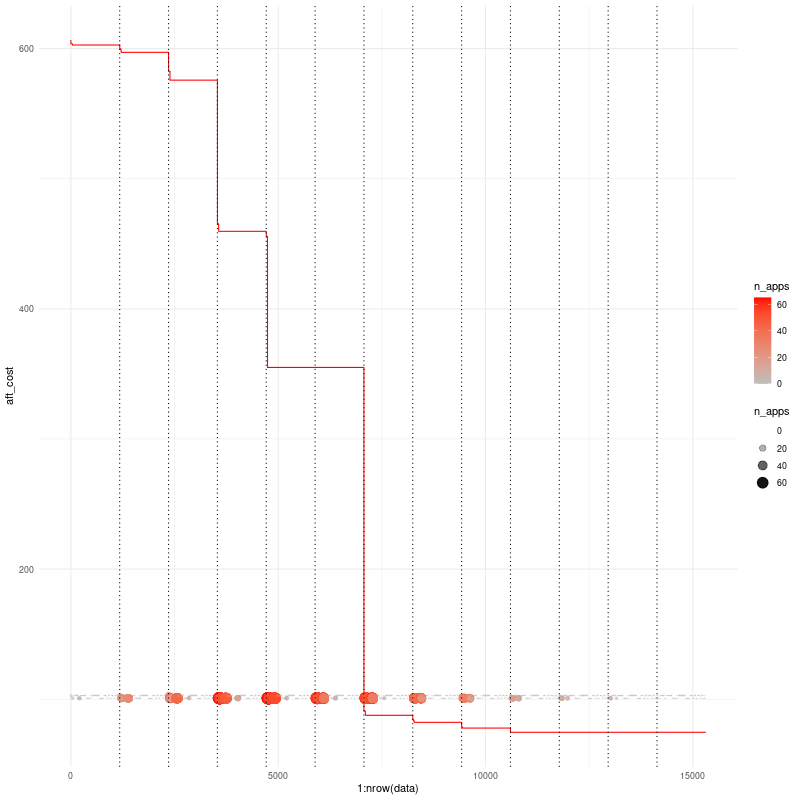
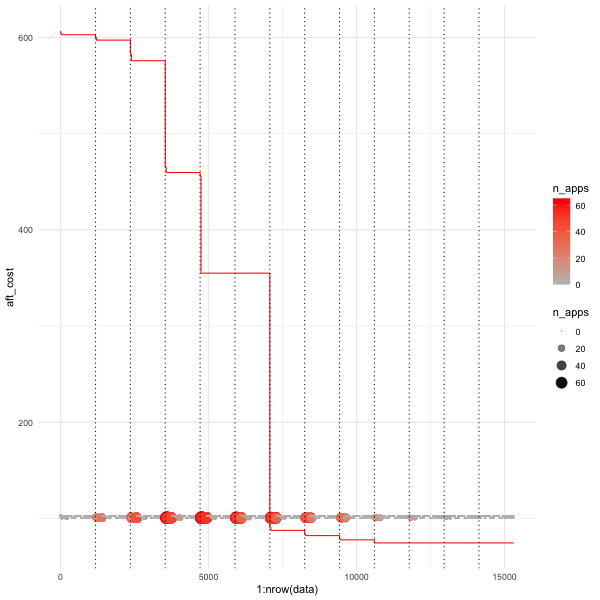
added some automatic phase separation

diff --git a/src/dios-egraphs/src/rules.rs b/src/dios-egraphs/src/rules.rs
@@ -1,9 +1,9 @@
-use std::{collections::HashMap, fs::File, io::BufWriter};
+use std::{collections::HashMap, fmt::Display, fs::File, io::BufWriter};
 
 use egg::{rewrite as rw, BackoffScheduler, Extractor, RecExpr, Runner, SimpleScheduler};
 
 use crate::{
-    cost::VecCostFn,
+    cost::{cost_average, cost_differential, VecCostFn},
     eqsat::{self, do_eqsat},
     external::{external_rules, retain_cost_effective_rules, smart_select_rules},
     handwritten::{handwritten_rules, phases},
@@ -21,9 +21,37 @@ pub enum Phase {
     Opt,
 }
 
+impl Display for Phase {
+    fn fmt(&self, f: &mut std::fmt::Formatter<'_>) -> Result<(), std::fmt::Error> {
+        let s = match self {
+            Phase::PreCompile => "Pre-compilation",
+            Phase::Compile => "Compilation",
+            Phase::Opt => "Optimization",
+        };
+        write!(f, "{}", s)
+    }
+}
+
 #[allow(unused)]
 fn retain_rules_by_name(rules: &mut Vec<DiosRwrite>, names: &[&str]) {
     rules.retain(|rewrite| names.contains(&rewrite.name.as_str()))
+}
+
+fn print_rules(rules: &[DiosRwrite]) {
+    for r in rules {
+        eprint!(
+            "[{} cd:{:.2} avg:{:.2}] ",
+            r.name,
+            cost_differential(r),
+            cost_average(r)
+        );
+        if let (Some(lhs), Some(rhs)) = (r.searcher.get_pattern_ast(), r.applier.get_pattern_ast())
+        {
+            eprintln!("{} => {}", lhs, rhs);
+        } else {
+            eprintln!("<opaque>");
+        }
+    }
 }
 
 pub type LoggingRunner = Runner<VecLang, TrackRewrites, LoggingData>;
@@ -58,7 +86,9 @@ pub fn run(prog: &RecExpr<VecLang>, opts: &opts::Opts) -> (f64, RecExpr<VecLang>
 
     if let Some(cutoff) = opts.cost_filter {
         initial_rules =
-            retain_cost_effective_rules(&initial_rules, opts.no_dup_vars, |x| x > cutoff);
+            retain_cost_effective_rules(&initial_rules, opts.no_dup_vars, cost_differential, |x| {
+                x > cutoff
+            });
     }
 
     // ================================
@@ -73,7 +103,25 @@ pub fn run(prog: &RecExpr<VecLang>, opts: &opts::Opts) -> (f64, RecExpr<VecLang>
 
     if let Some(split_phase_opt) = &opts.split_phase {
         match split_phase_opt {
-            SplitPhase::Auto => unimplemented!(),
+            SplitPhase::Auto => {
+                let pre_compile =
+                    retain_cost_effective_rules(&initial_rules, false, cost_average, |x| x < 10.);
+                let compile =
+                    retain_cost_effective_rules(&initial_rules, false, cost_average, |x| {
+                        10.0 <= x && x < 70.
+                    });
+                let opt =
+                    retain_cost_effective_rules(&initial_rules, false, cost_average, |x| 70. <= x);
+                rules
+                    .entry(Phase::PreCompile)
+                    .and_modify(|rules| rules.extend(pre_compile));
+                rules
+                    .entry(Phase::Compile)
+                    .and_modify(|rules| rules.extend(compile));
+                rules
+                    .entry(Phase::Opt)
+                    .and_modify(|rules| rules.extend(opt));
+            }
             SplitPhase::Handwritten => {
                 for r in initial_rules {
                     rules.entry(phases(&r)).and_modify(|rules| rules.push(r));
@@ -150,114 +198,35 @@ pub fn run(prog: &RecExpr<VecLang>, opts: &opts::Opts) -> (f64, RecExpr<VecLang>
         return (f64::NAN, prog.clone());
     }
 
-    // =============
-    // Start phase 1
-    // =============
+    let order = [Phase::PreCompile, Phase::Compile, Phase::Opt];
 
-    eprintln!("=================================");
-    eprintln!("Starting Phase 1: Pre-compilation");
-    eprintln!("=================================");
+    let mut eg = eqsat::init_egraph();
+    let mut prog = prog.clone();
+    let mut cost = None;
+    for (i, phase) in order.iter().enumerate() {
+        eprintln!("=================================");
+        eprintln!("Starting Phase {}: {}", i + 1, &phase);
+        eprintln!("=================================");
 
-    let eg = eqsat::init_egraph();
-    let (cost1, prog1, eg) = do_eqsat(&rules[&Phase::PreCompile], eg, prog, opts);
-    eprintln!("Cost: {}", cost1);
+        if opts.dump_rules {
+            print_rules(&rules[phase]);
+        }
 
-    eprintln!("=============================");
-    eprintln!("Starting Phase 2: Compilation");
-    eprintln!("=============================");
+        let (new_cost, new_prog, new_eg) = do_eqsat(&rules[phase], eg, &prog, opts);
+        if let Some(old_cost) = cost {
+            eprintln!("Cost: {} (improved {})", new_cost, old_cost - new_cost);
+        } else {
+            eprintln!("Cost: {}", new_cost);
+        }
 
-    let (cost2, prog2, eg) = do_eqsat(&rules[&Phase::Compile], eg, &prog1, opts);
-    eprintln!("Cost: {} (improved {})", cost2, cost1 - cost2);
+        if opts.new_egraph {
+            eg = eqsat::init_egraph();
+        } else {
+            eg = new_eg;
+        }
+        prog = new_prog;
+        cost = Some(new_cost);
+    }
 
-    eprintln!("==============================");
-    eprintln!("Starting Phase 3: Optimization");
-    eprintln!("==============================");
-
-    let (cost3, prog3, _eg) = do_eqsat(&rules[&Phase::Opt], eg, &prog2, opts);
-    eprintln!("Cost: {} (improved {})", cost3, cost2 - cost3);
-
-    (cost3, prog3)
-
-    // let mut init_eg: EGraph = EGraph::new(TrackRewrites::default()).with_explanations_enabled();
-    // init_eg.add(VecLang::Num(0));
-    // let mut runner = LoggingRunner::new(Default::default())
-    //     .with_egraph(init_eg)
-    //     .with_expr(&prog)
-    //     .with_node_limit(10_000_000)
-    //     .with_time_limit(std::time::Duration::from_secs(opts.timeout as u64))
-    //     .with_iter_limit(opts.iter_limit);
-
-    // // select the scheduler
-    // runner = match opts.scheduler {
-    //     opts::SchedulerOpt::Simple => runner.with_scheduler(SimpleScheduler),
-    //     opts::SchedulerOpt::Backoff => runner.with_scheduler(BackoffScheduler::default()),
-    //     opts::SchedulerOpt::Logging => {
-    //         if let Some(filename) = &opts.instrument {
-    //             let write = Box::new(BufWriter::with_capacity(
-    //                 1024,
-    //                 File::create(filename).unwrap(),
-    //             ));
-    //             let mut sched = LoggingScheduler::new_w_write(runner.roots[0], prog.clone(), write);
-    //             sched.write_headers();
-    //             runner.with_scheduler(sched)
-    //         } else {
-    //             let sched = LoggingScheduler::new(runner.roots[0], prog.clone());
-    //             runner.with_scheduler(sched)
-    //         }
-    //     }
-    // };
-
-    // eprintln!("Starting run with {} rules", rules.len());
-    // runner = runner.run(&rules);
-
-    // eprintln!("Egraph size: {}", runner.egraph.total_size());
-    // report(&runner);
-
-    // // print reason to STDERR.
-    // eprintln!(
-    //     "Stopped after {} iterations, reason: {:?}",
-    //     runner.iterations.len(),
-    //     runner.stop_reason
-    // );
-
-    // // if matches!(opts.scheduler, opts::SchedulerOpt::Logging) {
-    // //     runner.scheduler.log();
-    // // }
-
-    // // Extract the resulting program
-    // let (eg, root) = (runner.egraph.clone(), runner.roots[0].clone());
-    // let extractor = Extractor::new(&eg, VecCostFn {});
-    // let (cost, out_prog) = extractor.find_best(root);
-
-    // // Second phase optimization
-    // if opts.split_phase {
-    //     eprintln!("==== Starting Second Phase Optimization ====");
-    //     eprintln!("Using {} rules", snd_phase.len());
-
-    //     let mut init_eg: EGraph = EGraph::new(TrackRewrites::default()).with_explanations_enabled();
-    //     init_eg.add(VecLang::Num(0));
-    //     let mut runner = LoggingRunner::new(Default::default())
-    //         .with_egraph(init_eg)
-    //         .with_expr(&out_prog)
-    //         .with_node_limit(1_000_000)
-    //         .with_time_limit(std::time::Duration::from_secs(opts.timeout as u64))
-    //         .with_iter_limit(opts.iter_limit);
-    //     runner = runner.run(&snd_phase);
-    //     // report(&runner);
-
-    //     let (eg, root) = (runner.egraph.clone(), runner.roots[0].clone());
-
-    //     // // Always add the literal zero
-    //     let extractor = Extractor::new(&eg, VecCostFn {});
-    //     let (new_cost, new_prog) = extractor.find_best(root);
-    //     eprintln!(
-    //         "Improved cost by {} ({} - {})",
-    //         cost - new_cost,
-    //         cost,
-    //         new_cost
-    //     );
-    //     (new_cost, new_prog)
-    // } else {
-    //     (cost, out_prog)
-    // }
+    (cost.unwrap(), prog)
 }

diff --git a/src/dios-egraphs/src/eqsat.rs b/src/dios-egraphs/src/eqsat.rs
@@ -1,13 +1,10 @@
-use std::{collections::HashMap, fs::File, io::BufWriter};
+use std::{fs::File, io::BufWriter};
 
-use egg::{rewrite as rw, BackoffScheduler, Extractor, RecExpr, Runner, SimpleScheduler};
+use egg::{BackoffScheduler, Extractor, RecExpr, Runner, SimpleScheduler};
 
 use crate::{
     cost::VecCostFn,
-    external::{external_rules, retain_cost_effective_rules, smart_select_rules},
-    handwritten::{handwritten_rules, phases},
-    opts::{self, SplitPhase},
-    patterns::gen_patterns,
+    opts,
     rules::LoggingRunner,
     scheduler::{LoggingData, LoggingScheduler},
     tracking::TrackRewrites,
@@ -24,34 +21,37 @@ fn report(runner: &Runner<VecLang, TrackRewrites, LoggingData>) {
     let rebuilds: usize = runner.iterations.iter().map(|i| i.n_rebuilds).sum();
 
     let eg = &runner.egraph;
-    eprintln!("Runner report");
-    eprintln!("=============");
-    eprintln!("  Stop reason: {:?}", runner.stop_reason.as_ref().unwrap());
-    eprintln!("  Iterations: {}", iters);
+    eprintln!("  Runner report");
+    eprintln!("  =============");
     eprintln!(
-        "  Egraph size: {} nodes, {} classes, {} memo",
+        "    Stop reason: {:?}",
+        runner.stop_reason.as_ref().unwrap()
+    );
+    eprintln!("    Iterations: {}", iters);
+    eprintln!(
+        "    Egraph size: {} nodes, {} classes, {} memo",
         eg.total_number_of_nodes(),
         eg.number_of_classes(),
         eg.total_size()
     );
     eprintln!(
-        "  Rebuilds: {}, {:.2} per iter",
+        "    Rebuilds: {}, {:.2} per iter",
         rebuilds,
         (rebuilds as f64) / (iters as f64)
     );
-    eprintln!("  Total time: {}", total_time);
+    eprintln!("    Total time: {}", total_time);
     eprintln!(
-        "    Search:  ({:.2}) {}",
+        "      Search:  ({:.2}) {}",
         search_time / total_time,
         search_time
     );
     eprintln!(
-        "    Apply:   ({:.2}) {}",
+        "      Apply:   ({:.2}) {}",
         apply_time / total_time,
         apply_time
     );
     eprintln!(
-        "    Rebuild: ({:.2}) {}",
+        "      Rebuild: ({:.2}) {}",
         rebuild_time / total_time,
         rebuild_time
     );

diff --git a/src/dios-egraphs/src/external.rs b/src/dios-egraphs/src/external.rs
@@ -4,7 +4,7 @@ use egg::{rewrite as rw, CostFunction, Extractor, Id, Language, Pattern, RecExpr
 use itertools::Itertools;
 
 use crate::{
-    cost::{cost_differential, VecCostFn},
+    cost::VecCostFn,
     handwritten::build_litvec_rule,
     rules::LoggingRunner,
     tracking::TrackRewrites,
@@ -80,25 +80,29 @@ fn filter_vars(expr: &RecExpr<VecLang>) -> Vec<Var> {
     })
 }
 
-pub fn retain_cost_effective_rules<F>(
+pub fn retain_cost_effective_rules<F, G>(
     rules: &[DiosRwrite],
     all_vars: bool,
-    cutoff: F,
+    metric: F,
+    cutoff: G,
 ) -> Vec<DiosRwrite>
 where
-    F: Fn(f64) -> bool,
+    F: Fn(&DiosRwrite) -> f64,
+    G: Fn(f64) -> bool,
 {
     let result = rules
         .iter()
         .filter(|r| {
-            let cost_diff = cost_differential(r);
-            let lexp: RecExpr<VecLang> =
-                VecLang::from_pattern(r.searcher.get_pattern_ast().unwrap());
-            let lhs_vars = r.searcher.vars();
-            let all_vars_p = filter_vars(&lexp).len() == lhs_vars.len();
-
-            if all_vars {
-                cutoff(cost_diff) && all_vars_p
+            let cost_diff = metric(r);
+            if let Some(lhs) = r.searcher.get_pattern_ast() {
+                if all_vars {
+                    let lexp: RecExpr<VecLang> = VecLang::from_pattern(lhs);
+                    let lhs_vars = r.searcher.vars();
+                    let all_vars_p = filter_vars(&lexp).len() == lhs_vars.len();
+                    cutoff(cost_diff) && all_vars_p
+                } else {
+                    cutoff(cost_diff)
+                }
             } else {
                 cutoff(cost_diff)
             }

diff --git a/src/dios-egraphs/src/cost.rs b/src/dios-egraphs/src/cost.rs
@@ -68,6 +68,24 @@ impl CostFunction<VecLang> for VecCostFn {
     }
 }
 
+pub fn cost_average(r: &DiosRwrite) -> f64 {
+    if let (Some(lhs), Some(rhs)) = (r.searcher.get_pattern_ast(), r.applier.get_pattern_ast()) {
+        let lexp: RecExpr<VecLang> = VecLang::from_pattern(lhs);
+        let rexp: RecExpr<VecLang> = VecLang::from_pattern(rhs);
+        let mut costfn = VecCostFn {};
+        (costfn.cost_rec(&lexp) + costfn.cost_rec(&rexp)) / 2.
+    } else {
+        match r.name.as_str() {
+            "litvec" => 100.,
+            "+_binop_or_zero_vec" => 50.,
+            "*_binop_or_zero_vec" => 50.,
+            "-_binop_or_zero_vec" => 50.,
+            "vec-mac" => 100.,
+            _ => panic!("rule: {:?}", r),
+        }
+    }
+}
+
 pub fn cost_differential(r: &DiosRwrite) -> f64 {
     if let (Some(lhs), Some(rhs)) = (r.searcher.get_pattern_ast(), r.applier.get_pattern_ast()) {
         let lexp: RecExpr<VecLang> = VecLang::from_pattern(lhs);

diff --git a/src/dios-egraphs/src/opts.rs b/src/dios-egraphs/src/opts.rs
@@ -40,6 +40,10 @@ pub struct Opts {
     #[argh(option)]
     pub split_phase: Option<SplitPhase>,
 
+    /// start from a new egraph for each phase.
+    #[argh(switch)]
+    pub new_egraph: bool,
+
     /// run eqsat on extracted sub programs instead of on the whole program.
     #[argh(switch)]
     pub sub_prog: bool,

diff --git a/src/dios-egraphs/src/scheduler.rs b/src/dios-egraphs/src/scheduler.rs
@@ -88,10 +88,6 @@ impl LoggingScheduler {
     }
 }
 
-// CSV format
-// iteration, rule name, n_applications, bef_size, bef_classes, bef_cost,
-//    aft_size, aft_classes, aft_cost
-
 impl RewriteScheduler<VecLang, TrackRewrites> for LoggingScheduler {
     fn apply_rewrite(
         &mut self,
